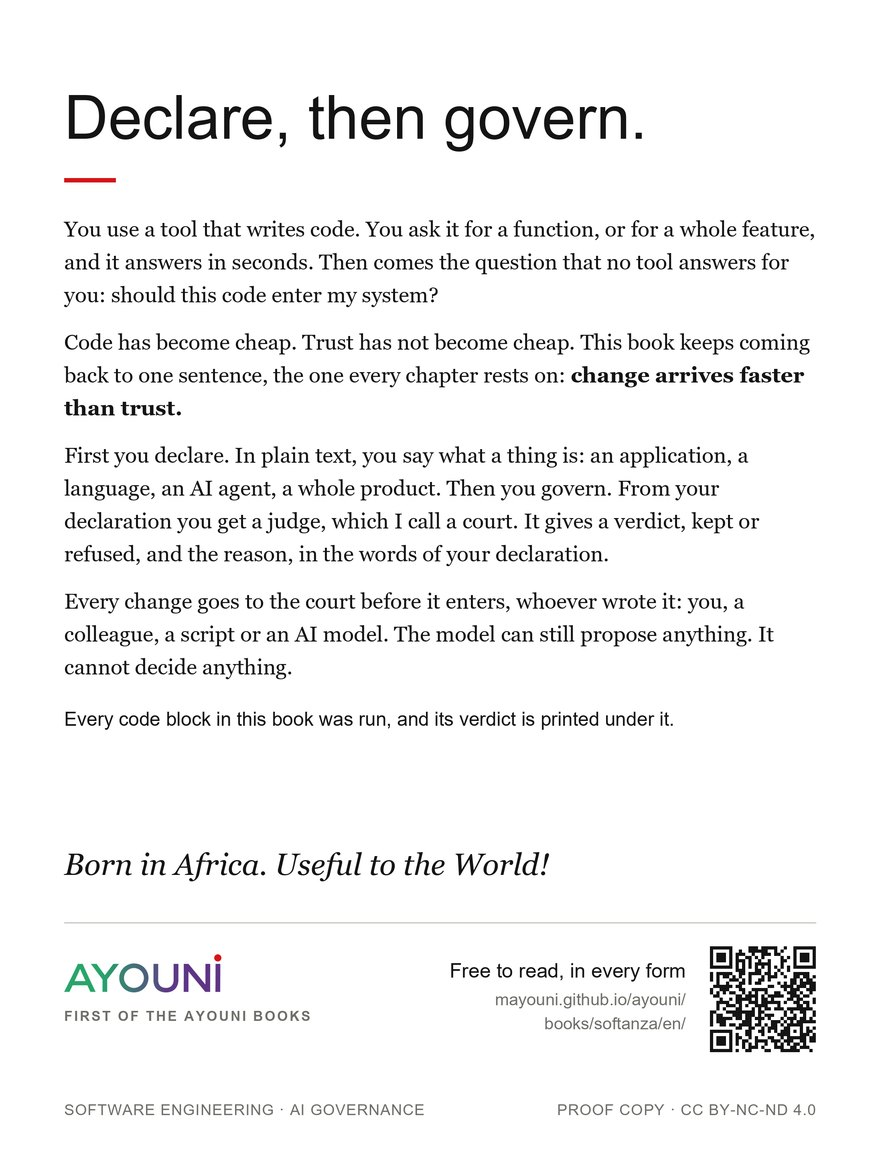
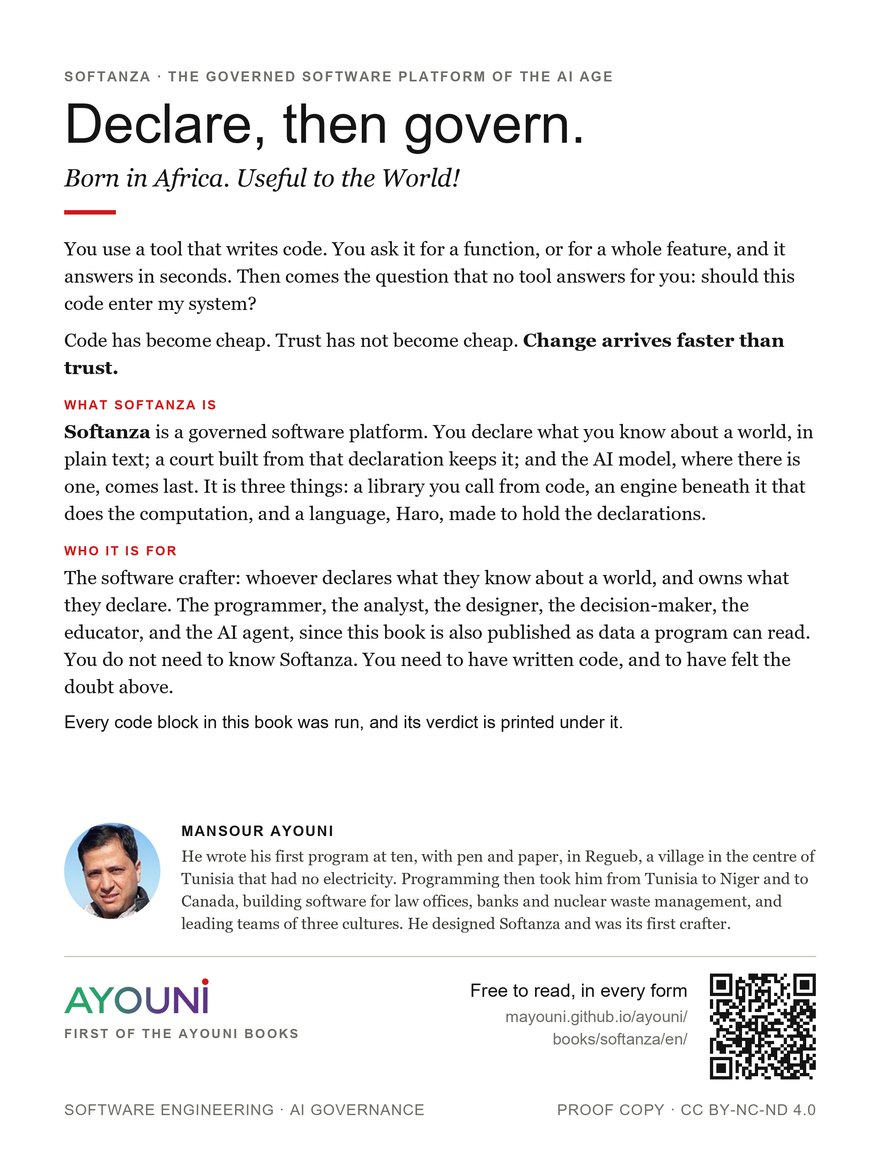
The house registers the Softanza PDFs of proof-copy-2026-10-17-2, built from 01d2ee4, and remakes the back covers' thumbnails
The two PDFs (622 and 640 pages, covers on the first and last page, 20 bookmarks) are those of the prerelease
proof-copy-2026-10-17-2 (English 15,529,636 bytes, sha256 9be726a6...; French 15,630,891 bytes, sha256 1f63826b...),
downloaded back and checked against the release digests and the book session's memo. The thumbnails of the redrawn
back covers are made from the pinned files. DECISIONS.md records the author's remarks and the redraw.

Changed region(s): [[0.0614, 0.0609, 0.9205, 0.6391], [0.0614, 0.7, 0.9511, 0.9435]]

diff --git a/DECISIONS.md b/DECISIONS.md
@@ -55,6 +55,8 @@ AYOUNI Press, the house session, records here what it decided and what the autho
 
 **2026-10-17: the Refinement book's back cover.** The Refinement rewrite session drew the back cover (`web/cover-back.png`, its ROP-18), made the live reader's cover turn over (Front | Back) and rebuilt the Teaching Edition PDF as a bound book with both covers (108 pages, bookmarks); the request was the author's, relayed above. The desk checked it and asked for the book's title and its audience on the back, as he had ruled for the Softanza back cover; the author then answered here: "Yes: publish the Refinement back cover as it is (14e5241): push mayouni/refinement-book, pin, register the back, thumbnail, verify live." (His words to the rewrite session, relayed by it and recorded in its ROP-18 update, were: "Yes, keep this back cover; the desk may publish it.") The house pushed `mayouni/refinement-book` (main at `14e5241`), pins it, publishes the back at `/books/refinement/en/back.png` and the rebuilt `book.pdf`, and the Refinement cover turns over on the home page like the Softanza one. The back cover said PROOF COPY in its corner and the live reader has no stage banner (its stages belong to the rewrite). **Update, the same day:** the rewrite session then redrew the back cover as the desk had asked (`64259b0`: the book's title and subtitle on top, "What it is" and "Who it is for" in the edition's own sentences, TEACHING EDITION in the corner, the PDF rebuilt at 108 pages), and the author chose it, asked by the desk whether to publish it in place of the live one: "Yes: publish the redrawn Refinement back cover (64259b0): push mayouni/refinement-book, pin, remake the back's thumbnail, verify live." The house pushed `mayouni/refinement-book` (main at `64259b0`) and pins it; the live edition keeps no stage banner.
 
+**2026-10-17: the Softanza back cover redrawn, with the author's portrait.** Looking at the back cover the house had published, the author told the Softanza book session (relayed by it): "The cover does not cite Softanza anywhere and does not say what is it and for whome!!!" and "The cover should present the author, me, Mansour Ayouni, along with my photo". The book session redrew it (its COVER-06 and COVER-07, `01d2ee4`): the book's title and subtitle on top, his two lines, "What Softanza is" and "Who it is for" from the book's own sentences, then his portrait, his name and a short note of facts from his own author note of 2020, then the imprint band with the QR code; the PDFs were rebuilt (the prerelease `proof-copy-2026-10-17-2`, 622 and 640 pages). His portrait is a new public file of the book's repository (`assets/cover/source/author.png`) and is on the published back covers; he asked for it to be shown. The house pins `01d2ee4`, registers the PDFs by sha256 and remakes the back covers' thumbnails.
+
 **HOUSE-05 · 2026-10-15 update.** "No PDF or ePub online unless I say so" now has its exceptions, each by his word: the Refinement PDF (HOUSE-11). A PDF or ePub goes online only if `site-src/books.json` lists it under `downloads` with the decision that allows it; `tools/check_public.py` fails on any other.
 
 **HOUSE-11 · the argument, as the author agreed with it, kept as the reason.** "Pay when you find it useful" is a promise of pay *after* use; a PDF behind payment is pay *before* use and reintroduces the thing the model removes. The PDF readers (offline, annotating, printing a chapter for a colleague, bringing it into a meeting) are the ones in whom "I found it useful" happens; gating the PDF gates that moment. The gate is not a lock anyway: the reader is one self-contained HTML file, anyone can save or print it; a wall anyone can walk around protects nothing and signals distrust. The house is open everywhere else (readers for people, data for AI agents, public source, every block runnable); a closed PDF would be the one closed door, and the one a decision-maker notices. Pay-what-you-want yields little money by itself; its currency is reach and trust, which for books addressed to professional decision-makers is the right currency: the book sells the platform and the practice, the paper and the author's time are the products. The free-online, buy-the-paper pattern has a long record (Eloquent JavaScript, Pro Git, SICP): the paper copy is bought as an object by people who already read the free one.
